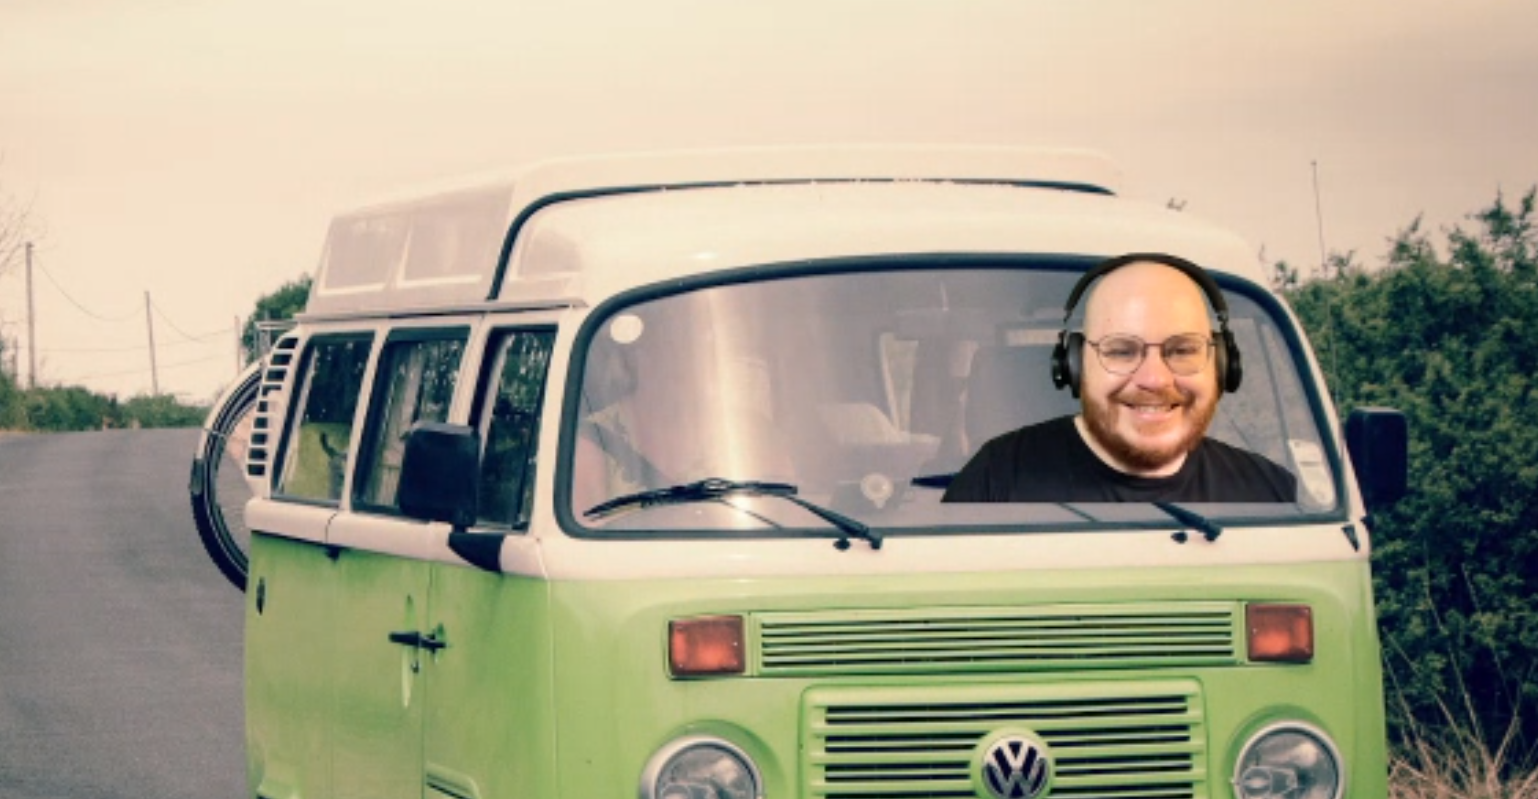
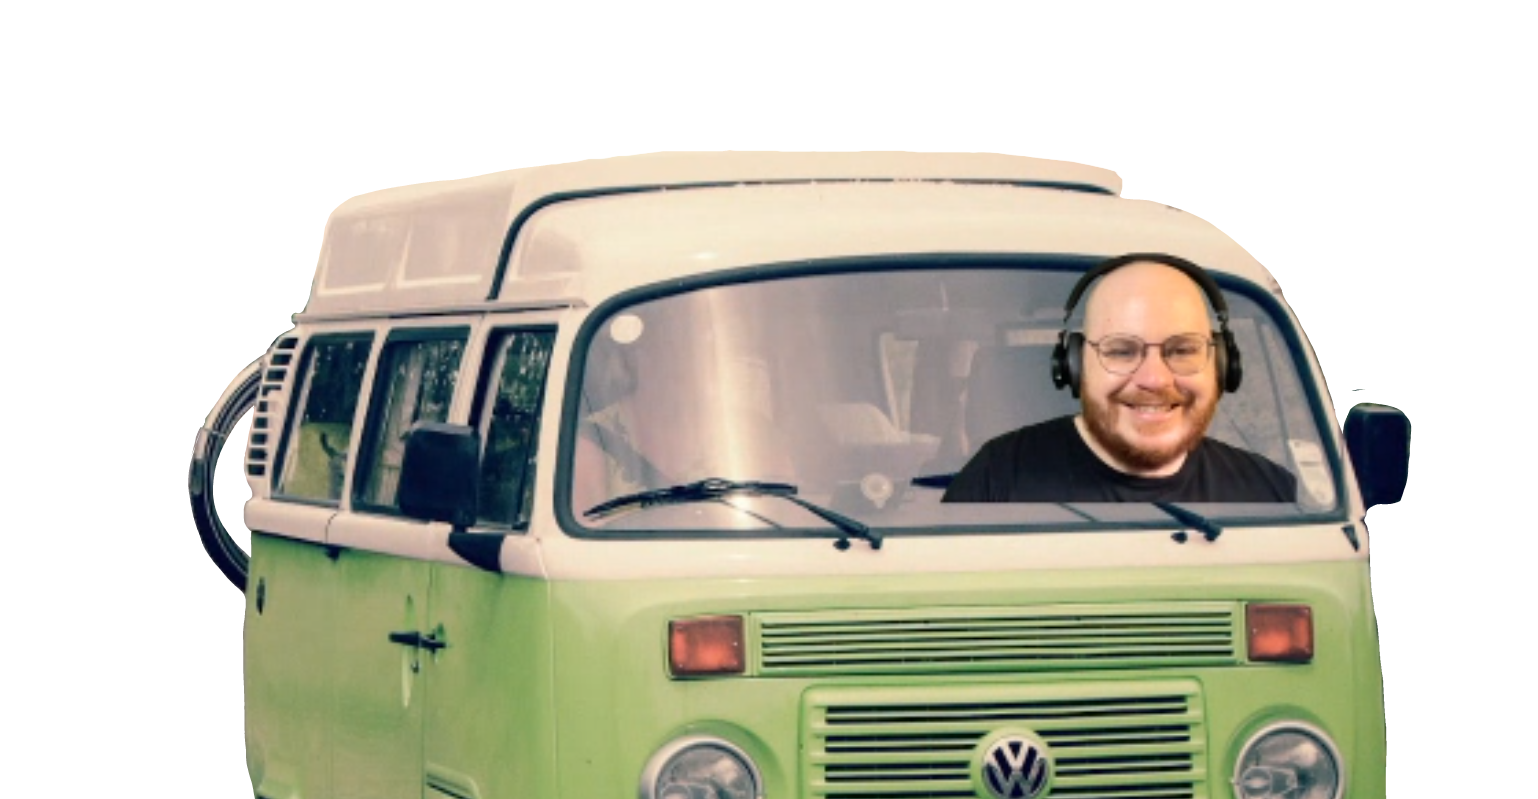
the saule BG is live

diff --git a/frontend/src/pages/Lieu.jsx b/frontend/src/pages/Lieu.jsx
@@ -1,5 +1,6 @@
 import React, { useState } from "react";
 import { Link } from "react-router-dom";
+import anthoPic from "@assets/AnthoLeBG.png";
 
 import "./Lieu.css";
 
@@ -8,40 +9,49 @@ function Lieu(props) {
   const { location, character } = props;
 
   return (
-    <section
-      className="lieu"
-      style={{ backgroundImage: `url(${location.src})` }}
-    >
-      {progress === 1 && (
-        <>
-          <h2>{location.name}</h2>
-          <p className="lieuDesc">
-            <span>{location.description}</span>
-          </p>
-        </>
-      )}
-
-      {progress === 2 && (
-        <>
-          <div className="cardChars">
-            <img alt="avatar" src={character.src} />
-            <h3>{character.name}</h3>
-          </div>
-          <p className="text-center">{character.quote1}</p>
-        </>
-      )}
-
-      {progress === 2 ? (
-        <button type="button">
-          {" "}
-          <Link to="/Lieux">Retour</Link>
-        </button>
+    <>
+      {location.lieu_id === 11 ? (
+        <div className="AnthoPic">
+          <img src={anthoPic} alt="Antho Easter Egg" />
+        </div>
       ) : (
-        <button type="button" onClick={() => setProgress(progress + 1)}>
-          Continuer
-        </button>
+        ""
       )}
-    </section>
+      <section
+        className="lieu"
+        style={{ backgroundImage: `url(${location.src})` }}
+      >
+        {progress === 1 && (
+          <>
+            <h2>{location.name}</h2>
+            <p className="lieuDesc">
+              <span>{location.description}</span>
+            </p>
+          </>
+        )}
+
+        {progress === 2 && (
+          <>
+            <div className="cardChars">
+              <img alt="avatar" src={character.src} />
+              <h3>{character.name}</h3>
+            </div>
+            <p className="text-center">{character.quote1}</p>
+          </>
+        )}
+
+        {progress === 2 ? (
+          <button type="button">
+            {" "}
+            <Link to="/Lieux">Retour</Link>
+          </button>
+        ) : (
+          <button type="button" onClick={() => setProgress(progress + 1)}>
+            Continuer
+          </button>
+        )}
+      </section>
+    </>
   );
 }
 

diff --git a/frontend/src/pages/Lieu.css b/frontend/src/pages/Lieu.css
@@ -1,3 +1,14 @@
+.AnthoPic {
+  position: fixed;
+  left: 45%;
+  z-index: 1;
+}
+
+.AnthoPic img {
+  width: 280px;
+  transform: rotate(180deg);
+}
+
 .lieu {
   height: 100vh;
   padding: 2rem;
@@ -16,6 +27,7 @@
   padding: 1rem;
   margin: 0;
   text-align: center;
+  z-index: 2;
 }
 
 .lieu h2 {
@@ -34,6 +46,7 @@
   grid-column: 2 / 6;
   grid-row: 2 / 4;
   height: fit-content;
+  z-index: 2;
 }
 
 .lieu .lieuDesc {
@@ -71,6 +84,7 @@
   border: 2px solid rgba(218, 195, 115, 0.8);
   border-radius: 50px;
   width: 250px;
+  z-index: 2;
 }
 
 .lieu h3 {
@@ -78,6 +92,14 @@
 }
 
 @media only screen and (min-width: 1080px) {
+  .AnthoPic {
+    left: 55%;
+  }
+
+  .AnthoPic img {
+    width: 580px;
+  }
+
   .lieu {
     display: flex;
     flex-direction: column;
@@ -117,6 +139,10 @@
 }
 
 @media only screen and (min-width: 1500px) {
+  .AnthoPic {
+    left: 60%;
+  }
+
   .cardChars img {
     width: 80%;
   }

diff --git a/frontend/src/pages/LieuxStyle.css b/frontend/src/pages/LieuxStyle.css
@@ -129,6 +129,11 @@
     filter: blur(12px);
   }
 
+  .map span,
+  .map p {
+    font-size: 1.5rem;
+  }
+
   .Dortoir {
     top: 26%;
     left: 58.2%;
@@ -164,6 +169,12 @@
   .map {
     margin: 0 20rem;
   }
+
+  .map span,
+  .map p {
+    font-size: 2rem;
+  }
+
   .Dortoir {
     top: 25.5%;
     left: 57.5%;
